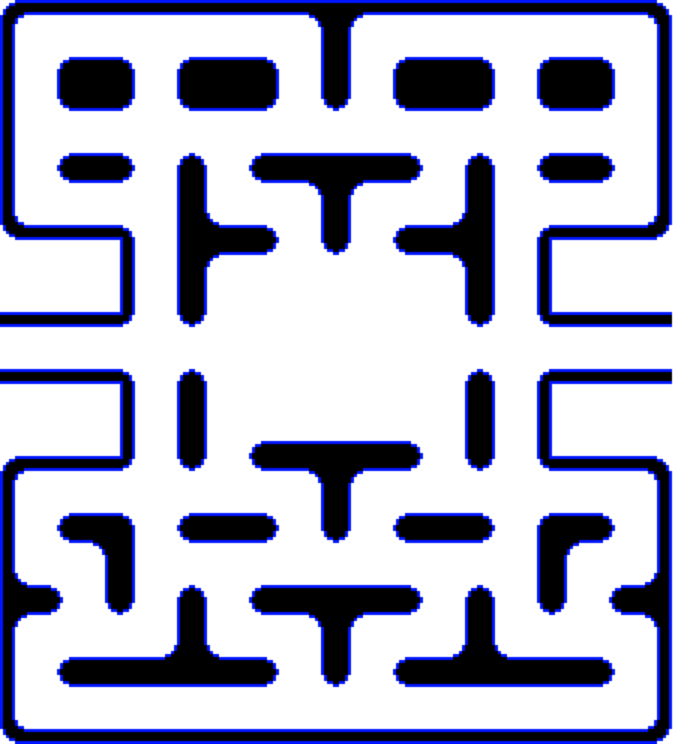
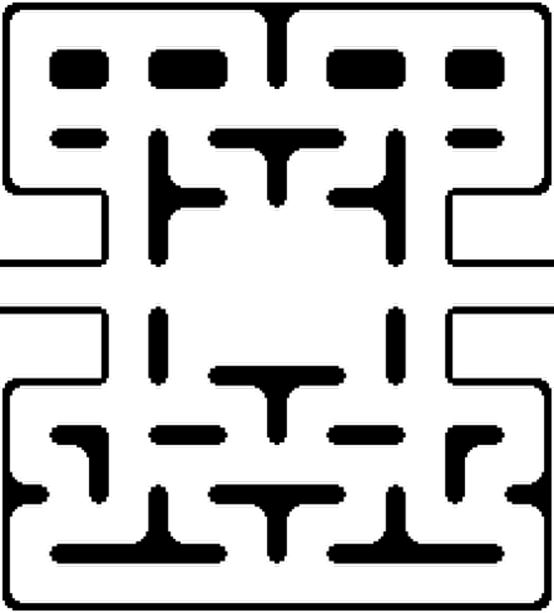
1.1

diff --git a/3.py b/3.py
@@ -14,6 +14,7 @@ pygame.display.set_caption('Pacman')
 
 # переменная, отвечающая за отображение очков
 score = 0
+dots_left = 243
 
 # группа спрайтов
 all_sprites = pygame.sprite.Group()
@@ -25,6 +26,7 @@ life3 = pygame.sprite.Group()
 lives = 3
 pause = False
 gameover = False
+game_win = False
 
 
 # функция для загрузки изображения из локального хранилища
@@ -50,13 +52,23 @@ def load_image(name, color_key=None):
 # создание класса Lab
 class Lab(pygame.sprite.Sprite):
     image = load_image("lab.png")
+    image2 = load_image("lab2.png")
 
     def __init__(self, *group):
         super().__init__(*group)
         self.image = Lab.image
+        self.frame = 0
         self.rect = self.image.get_rect()
         self.rect.x = 0
         self.rect.y = 0
+
+    def update(self):
+        if self.frame == 0:
+            self.image = Lab.image
+            self.frame = 1
+        elif self.frame == 1:
+            self.image = Lab.image2
+            self.frame = 0
 
 
 class Life1(pygame.sprite.Sprite):
@@ -221,11 +233,6 @@ class Board:
                       [1, 6, 2, 2, 2, 2, 2, 2, 2, 2, 2, 2, 4, 2, 2, 4, 2, 2, 2, 2, 2, 2, 2, 2, 2, 2, 6, 1],
                       [1, 1, 1, 1, 1, 1, 1, 1, 1, 1, 1, 1, 1, 1, 1, 1, 1, 1, 1, 1, 1, 1, 1, 1, 1, 1, 1, 1]]
 
-    # def check(self):
-    #     if Board.matrix == self.board:
-    #         return True
-    #     return False
-
     def set_view(self, left, top, cell_size):
         self.left = left
         self.top = top
@@ -256,21 +263,25 @@ class Board:
     def scoring(self, pos):
         try:
             global score
+            global dots_left
             if self.board[pos[1] //
                           self.cell_size][pos[0] // self.cell_size] == 2:
                 self.board[pos[1]
                            // self.cell_size][pos[0] // self.cell_size] = 0
                 score += 10
+                dots_left -= 1
             if self.board[pos[1]
                           // self.cell_size][pos[0] // self.cell_size] == 4:
                 self.board[pos[1]
                            // self.cell_size][pos[0] // self.cell_size] = 3
                 score += 10
+                dots_left -= 1
             if self.board[pos[1]
                           // self.cell_size][pos[0] // self.cell_size] == 6:
                 self.board[pos[1]
                            // self.cell_size][pos[0] // self.cell_size] = 5
                 score += 10
+                dots_left -= 1
         except:
             pass
 
@@ -524,7 +535,7 @@ left_collider = Left_Collider()
 right_collider = Right_Collider()
 
 # вызов метода класса Lab
-Lab(all_sprites)
+lab = Lab(all_sprites)
 Life1(life1)
 Life2(life2)
 Life3(life3)
@@ -581,12 +592,12 @@ while running:
         blinky.restart()
 
     # Пакман двигается
-    if not pause and not gameover:
+    if not pause and not gameover and not game_win:
         pacman.move()
         if tick3 == 0:
             blinky.move()
         all_sprites2.draw(screen)
-    elif pause and not gameover:
+    elif pause and not gameover and not game_win:
         end_game_.draw(screen)
         end_game.update()
         tick2 += 1
@@ -596,6 +607,18 @@ while running:
             fps = 140
             if lives == -1:
                 gameover = True
+    elif pause and game_win and not gameover:
+        lab.update()
+        tick2 += 1
+        if tick2 == 11:
+            pause = False
+            tick2 = 0
+            fps = 140
+            game_win = False
+            pacman.restart()
+            blinky.restart()
+            board.reload()
+
 
     board.render(screen)
     board.scoring(pacman.where())
@@ -641,11 +664,12 @@ while running:
         text_h = text.get_height()
         screen.blit(text, (text_x + 50, text_y))
 
-    print(board.check())
-    if score % 2370 == 0 and score != 0 and not board.check():
-        pacman.restart()
-        blinky.restart()
-        board.reload()
+    if dots_left == 0:
+        fps = 5
+        pause = True
+        game_win = True
+        dots_left = 271
+
 
     # увеличиваем переменную на 1
     tick += 1
